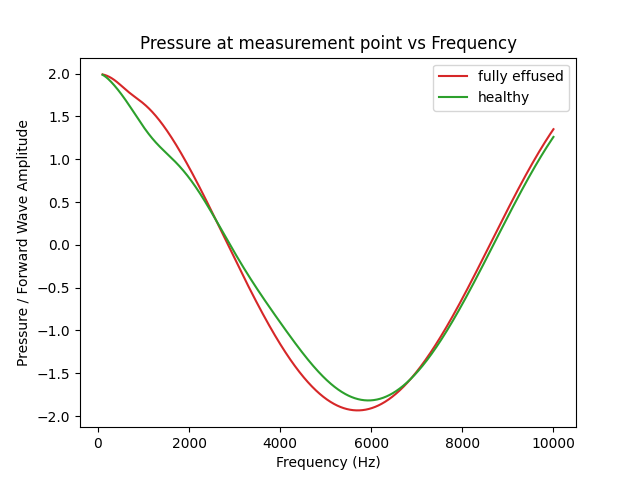
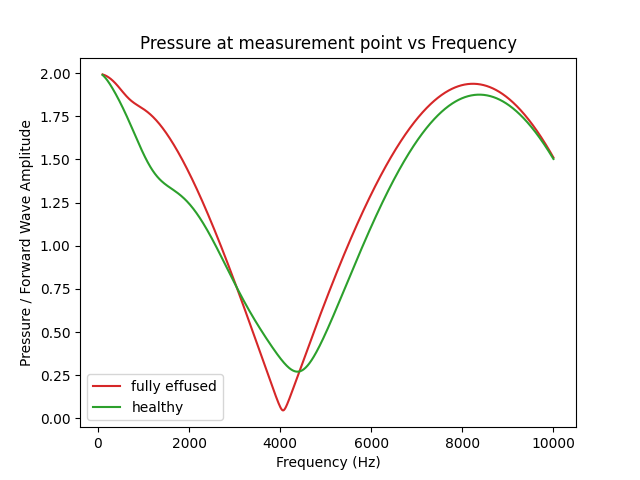
plot magnitude of pressure instead of real part for physical sense

diff --git a/LR/AR_cylindrical_EC.py b/LR/AR_cylindrical_EC.py
@@ -25,7 +25,7 @@ def get_acoustic_reflectometry_response(frequencies: list, reflection_coeffs: li
     """trying to mimic what a microphone would measure x away from TM
     not sure why it isn't working
     """
-    x = -30 * 10**-3    # this is negative because of how the axes are defined
+    x = -21 * 10**-3    # this is negative because of how the axes are defined
     c = 343
 
     p_list = []
@@ -33,7 +33,7 @@ def get_acoustic_reflectometry_response(frequencies: list, reflection_coeffs: li
         forward = np.exp(1j * 2 * np.pi * f * (- x / c))
         backward = reflection_coeffs[i] * np.exp(1j * 2 * np.pi * f * (x / c))
         p = forward + backward
-        p_list.append(p.real)
+        p_list.append(abs(p)) # need to understand why we are plotting the absolute value instead of the real value 
 
     return p_list
 
@@ -59,10 +59,8 @@ def get_WAI_freq_resp(
     for f in frequencies:
         Z_me = CircuitHelpers.branch_parallel_impedances(middle_ear_branches, f)
            
-
         middle_ear_impedances.append(abs(Z_me))
 
-    
         reflection_coeff_at_ear_drum = (Z_me - Z_0)/(Z_me + Z_0)
 
         reflection_coeffs.append(reflection_coeff_at_ear_drum)  
@@ -110,7 +108,6 @@ plot_multiple_with_labels(
     "Pressure / Forward Wave Amplitude",
     ar_resp_dict,
 )
-
 
 
 impedances_plotting_dict = {
